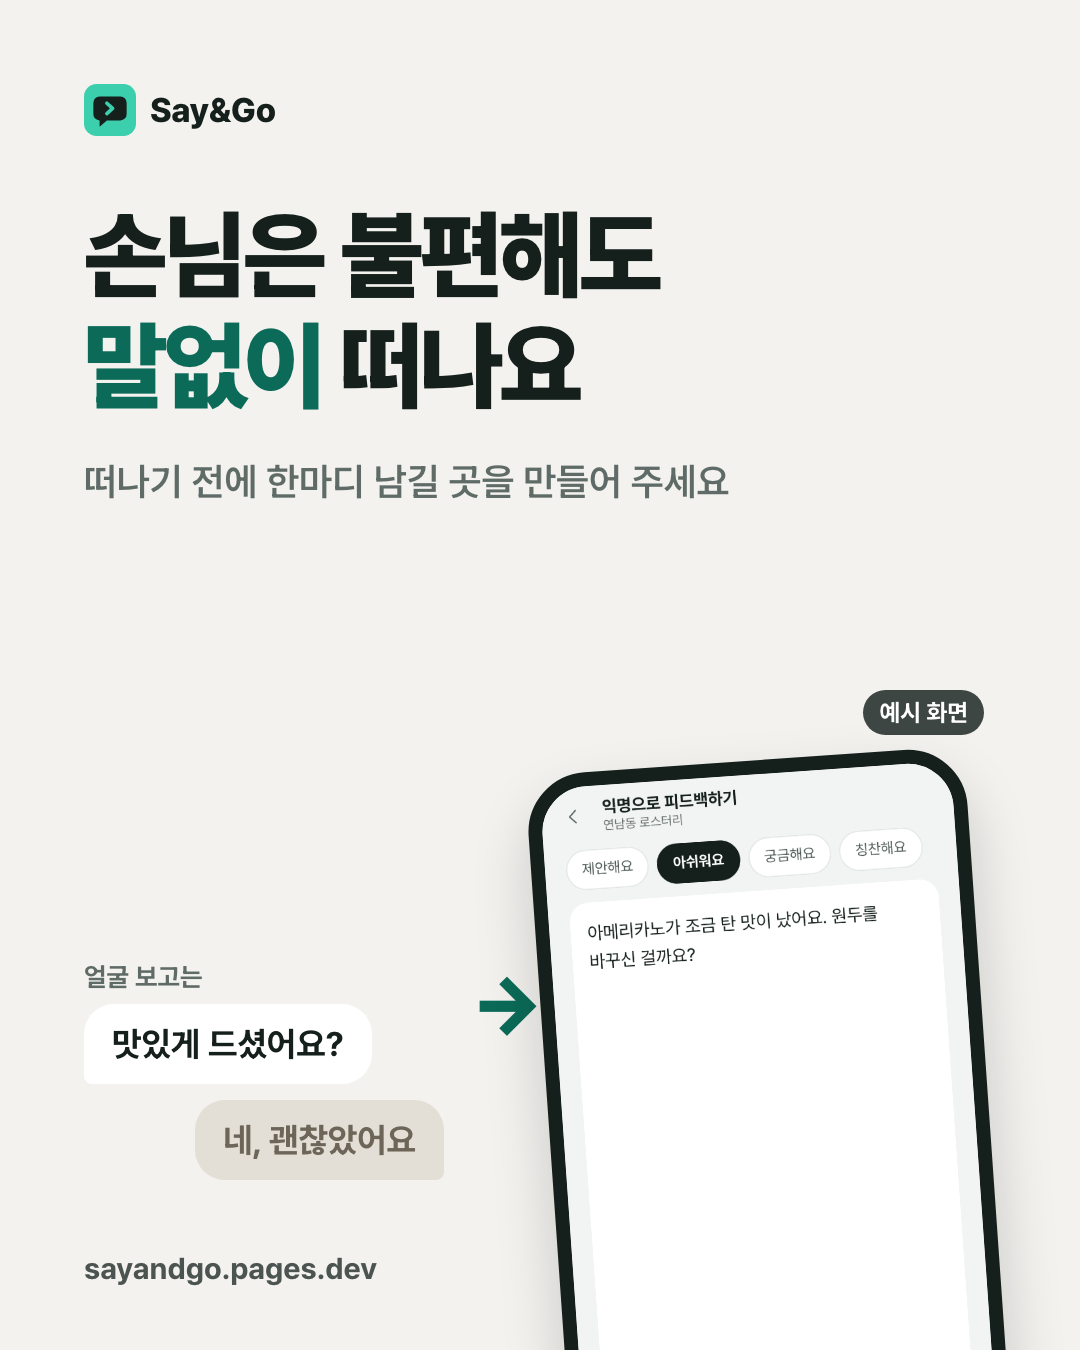
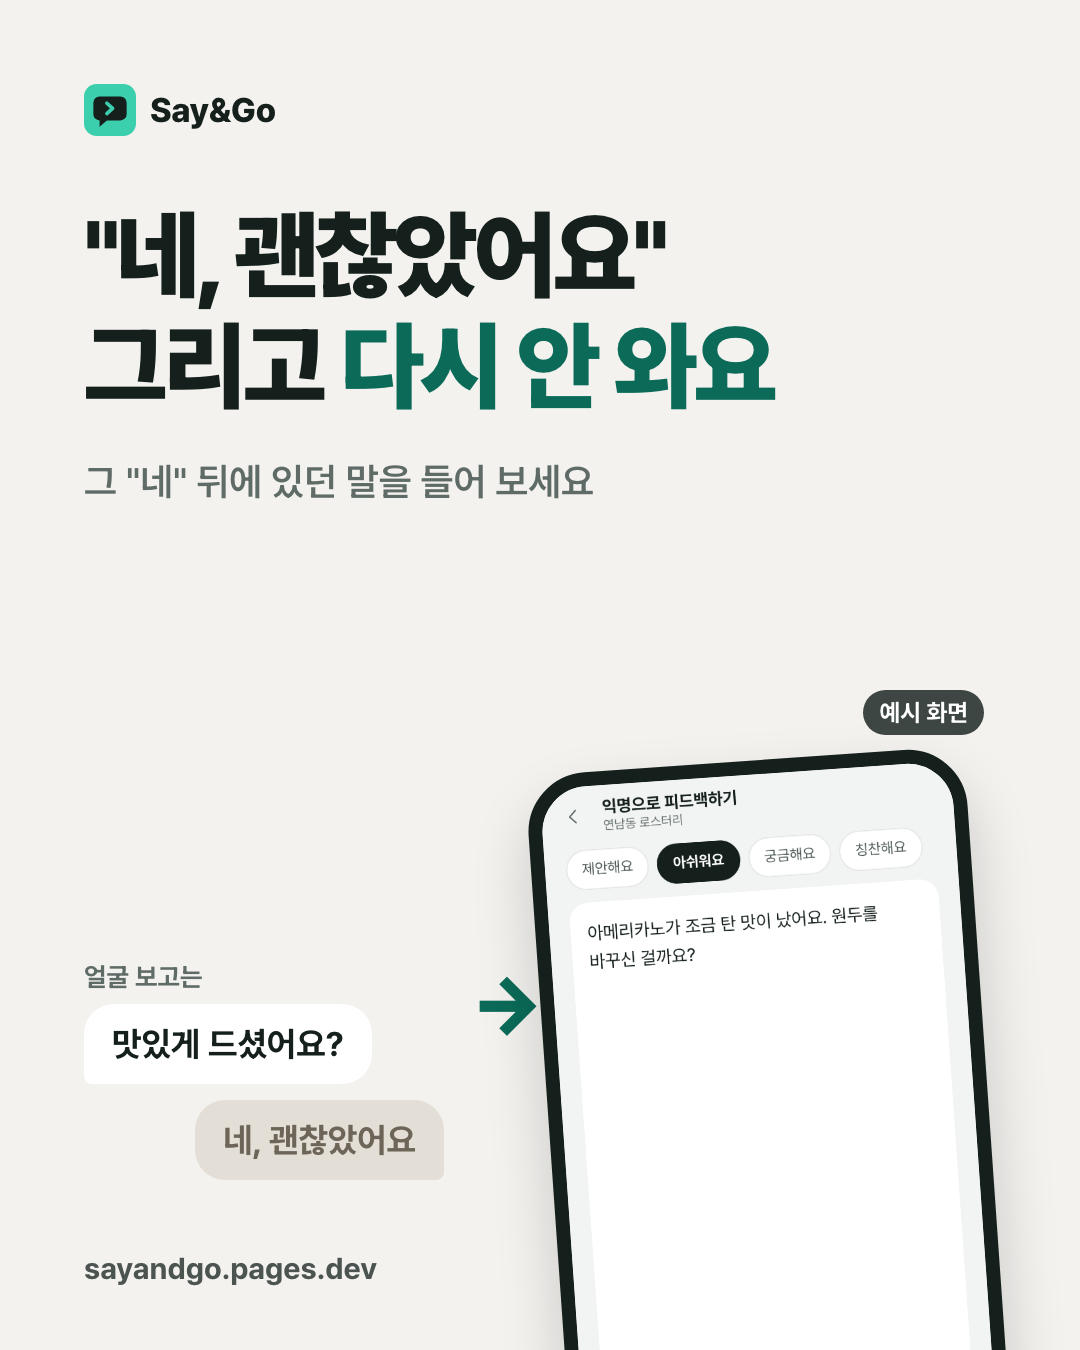
docs: Threads 카드 v1 제목을 '"네, 괜찮았어요" 그리고 다시 안 와요'로

Changed region(s): [[0.0611, 0.1556, 0.7333, 0.3111], [0.0611, 0.3422, 0.6722, 0.3733]]

diff --git a/docs/threads/cards-v.html b/docs/threads/cards-v.html
@@ -133,9 +133,9 @@
 <body>
 <section class="card v" id="card1-v1">
   <div class="brand"><img src="../../web/public/favicon.svg" alt="">Say&amp;Go</div>
-  <h1>손님은 불편해도
-<em>말없이</em> 떠나요</h1>
-  <p class="sub">떠나기 전에 한마디 남길 곳을 만들어 주세요</p>
+  <h1>"네, 괜찮았어요"
+그리고 <em>다시 안 와요</em></h1>
+  <p class="sub">그 "네" 뒤에 있던 말을 들어 보세요</p>
   <div class="left"><p class="cap">얼굴 보고는</p><div class="say"><span class="q">맛있게 드셨어요?</span><span class="a">네, 괜찮았어요</span></div></div>
   <div class="arrow">→</div>
   <div class="phone"><img src="src/compose.png" alt=""></div>
